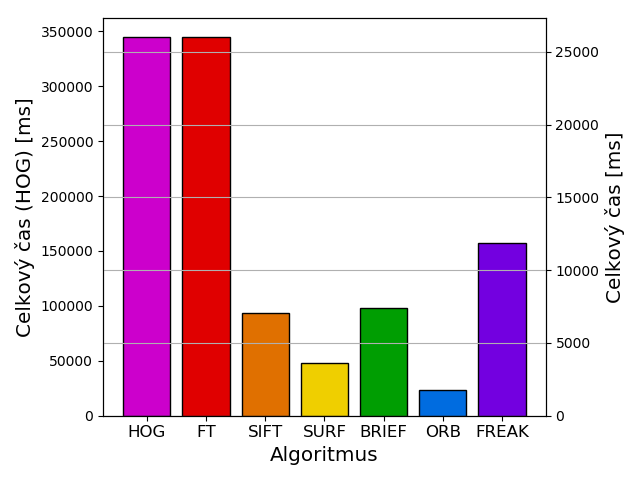
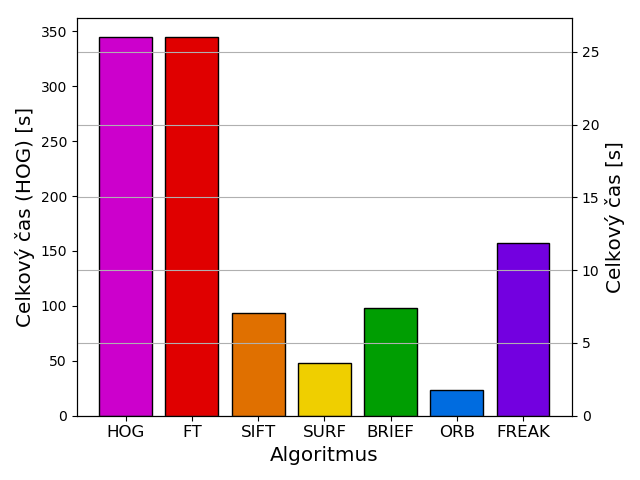
Added axis formatters, fixed the large totaltime chart

diff --git a/src/scripts/charts/generateCharts2.py b/src/scripts/charts/generateCharts2.py
@@ -1,5 +1,6 @@
 import os
 import numpy as np
+import math
 import matplotlib.pyplot as plt
 from matplotlib.ticker import FuncFormatter
 import src.scripts.charts.data as data
@@ -8,8 +9,11 @@ OUTPUT_DIR = "./output"
 
 COLORS = ["#cc00cc", "#e00000", "#e07000", "#efcf00", "#009e02", "#006ce0", "#7300e0"]
 
+PERCENTAGE_FORMATTER = lambda y, _: f"{(100 * y):.0f} %"
+SECOND_FORMATTER = lambda y, _: math.floor(y / 1000.0)
+
 def plotSingleAxisSingleData(data, yAxisLabel,
-                             title=None, percentage=False, filename=None, show=False):
+                             title=None, yAxisFormatter=None, filename=None, show=False):
     algorithms = list(data.keys())
     values = list(data.values())
     fig, ax = plt.subplots()
@@ -32,8 +36,8 @@ def plotSingleAxisSingleData(data, yAxisLabel,
     else:
         ax.yaxis.label.set_fontsize("large")
 
-    if percentage:
-        ax.yaxis.set_major_formatter(FuncFormatter(lambda y, _: f"{(100 * y):.0f} %"))
+    if not yAxisFormatter is None:
+        ax.yaxis.set_major_formatter(FuncFormatter(yAxisFormatter))
 
     ax.bar(index, values, color=COLORS, edgecolor="black")
 
@@ -47,7 +51,7 @@ def plotSingleAxisSingleData(data, yAxisLabel,
 
 
 def plotTwinAxesSingleData(leftData, rightData, leftYAxisLabel, rightYAxisLabel,
-                           title=None, filename=None, show=False):
+                           leftYAxisFormatter=None, rightYAxisFormatter=None, title=None, filename=None, show=False):
     leftAlgorithms = list(leftData.keys())
     leftValues = list(leftData.values())
     rightAlgorithms = list(rightData.keys())
@@ -73,6 +77,9 @@ def plotTwinAxesSingleData(leftData, rightData, leftYAxisLabel, rightYAxisLabel,
     else:
         left.yaxis.label.set_fontsize("large")
 
+    if not leftYAxisFormatter is None:
+        left.yaxis.set_major_formatter(FuncFormatter(leftYAxisFormatter))
+
     # assume HOG is on the first index
     left.bar(index[:len(leftAlgorithms)], leftValues, color=COLORS[:len(leftAlgorithms)], edgecolor="black")
 
@@ -83,6 +90,9 @@ def plotTwinAxesSingleData(leftData, rightData, leftYAxisLabel, rightYAxisLabel,
         right.yaxis.label.set_fontsize("x-large")
     else:
         right.yaxis.label.set_fontsize("large")
+
+    if not rightYAxisFormatter is None:
+        right.yaxis.set_major_formatter(FuncFormatter(rightYAxisFormatter))
 
     right.bar(index[len(leftAlgorithms):], rightValues, color=COLORS[len(leftAlgorithms):], edgecolor="black") # except first (which is HOG)
 
@@ -96,7 +106,7 @@ def plotTwinAxesSingleData(leftData, rightData, leftYAxisLabel, rightYAxisLabel,
 
 # assume it's pairs of data, all containing same number of items
 def plotTwinAxesTwinData(leftData, rightData, leftYAxisLabel, rightYAxisLabel, leftLegend, rightLegend,
-                         title=None, filename=None, show=False):
+                         leftYAxisFormatter=None, rightYAxisFormatter=None, title=None, filename=None, show=False):
     fig, left = plt.subplots()
 
     right = left.twinx()
@@ -124,11 +134,16 @@ def plotTwinAxesTwinData(leftData, rightData, leftYAxisLabel, rightYAxisLabel, l
         left.yaxis.label.set_fontsize("x-large")
     else:
         left.yaxis.label.set_fontsize("large")
+    if not leftYAxisFormatter is None:
+        left.yaxis.set_major_formatter(FuncFormatter(leftYAxisFormatter))
+
     right.set_ylabel(rightYAxisLabel)
     if len(rightYAxisLabel) <= 30:
         right.yaxis.label.set_fontsize("x-large")
     else:
         right.yaxis.label.set_fontsize("large")
+    if not rightYAxisFormatter is None:
+        right.yaxis.set_major_formatter(FuncFormatter(rightYAxisFormatter))
 
 
     l1 = left.bar(index - barWidth / 2, leftValues, barWidth, color=COLORS, edgecolor="black")
@@ -210,7 +225,7 @@ print("Generating charts...")
 
 plotSingleAxisSingleData(data=data.DATA_SINGLE["accuracy"],
                          yAxisLabel="Přesnost [%]",
-                         percentage=True,
+                         yAxisFormatter=PERCENTAGE_FORMATTER,
                          filename="single/new/accuracy.png")
 plotTwinAxesSingleData(leftData=cherryPick(data.DATA_SINGLE["matchingSingle"], ("HOG")),
                        rightData=cherryPick(data.DATA_SINGLE["matchingSingle"], ("HOG"), include=False),
@@ -246,7 +261,7 @@ print("Generating NEW charts...")
 
 plotSingleAxisSingleData(data=data.DATA_LARGE["accuracy"],
                          yAxisLabel="Přesnost [%]",
-                         percentage=True,
+                         yAxisFormatter=PERCENTAGE_FORMATTER,
                          filename="large/accuracy.png")
 plotTwinAxesSingleData(leftData=cherryPick(data.DATA_LARGE["matchingSingle"], ("HOG")),
                        rightData=cherryPick(data.DATA_LARGE["matchingSingle"], ("HOG"), include=False),
@@ -260,8 +275,10 @@ plotTwinAxesSingleData(leftData=cherryPick(data.DATA_LARGE["partProcess"], ("HOG
                        filename="large/partProcess.png")
 plotTwinAxesSingleData(leftData=cherryPick(data.DATA_LARGE["totalTime"], ("HOG")),
                        rightData=cherryPick(data.DATA_LARGE["totalTime"], ("HOG"), include=False),
-                       leftYAxisLabel="Celkový čas (HOG) [ms]",
-                       rightYAxisLabel="Celkový čas [ms]",
+                       leftYAxisLabel="Celkový čas (HOG) [s]",
+                       rightYAxisLabel="Celkový čas [s]",
+                       leftYAxisFormatter=SECOND_FORMATTER,
+                       rightYAxisFormatter=SECOND_FORMATTER,
                        filename="large/totalTime.png")
 plotTwinAxesTwinData(leftData=data.DATA_LARGE["descriptorPart"],
                      rightData=data.DATA_LARGE["descriptorImage"],
